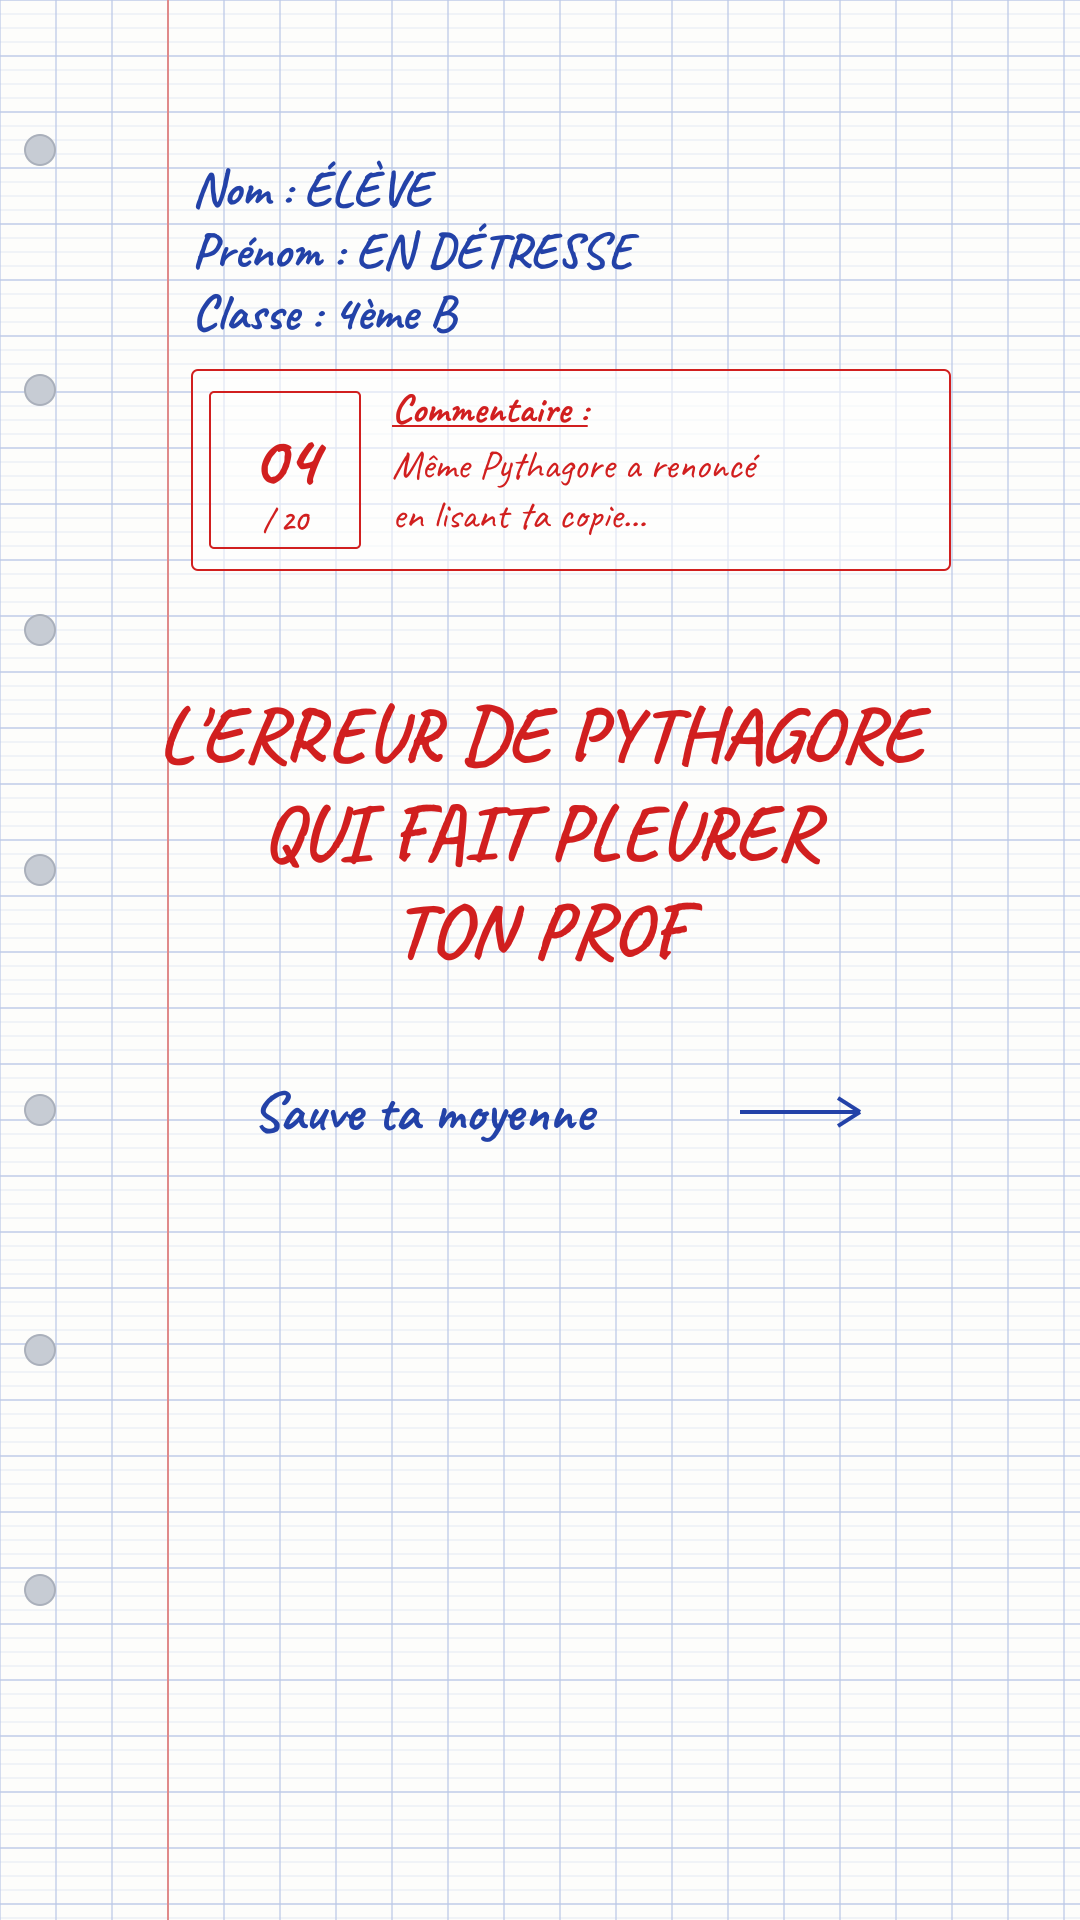
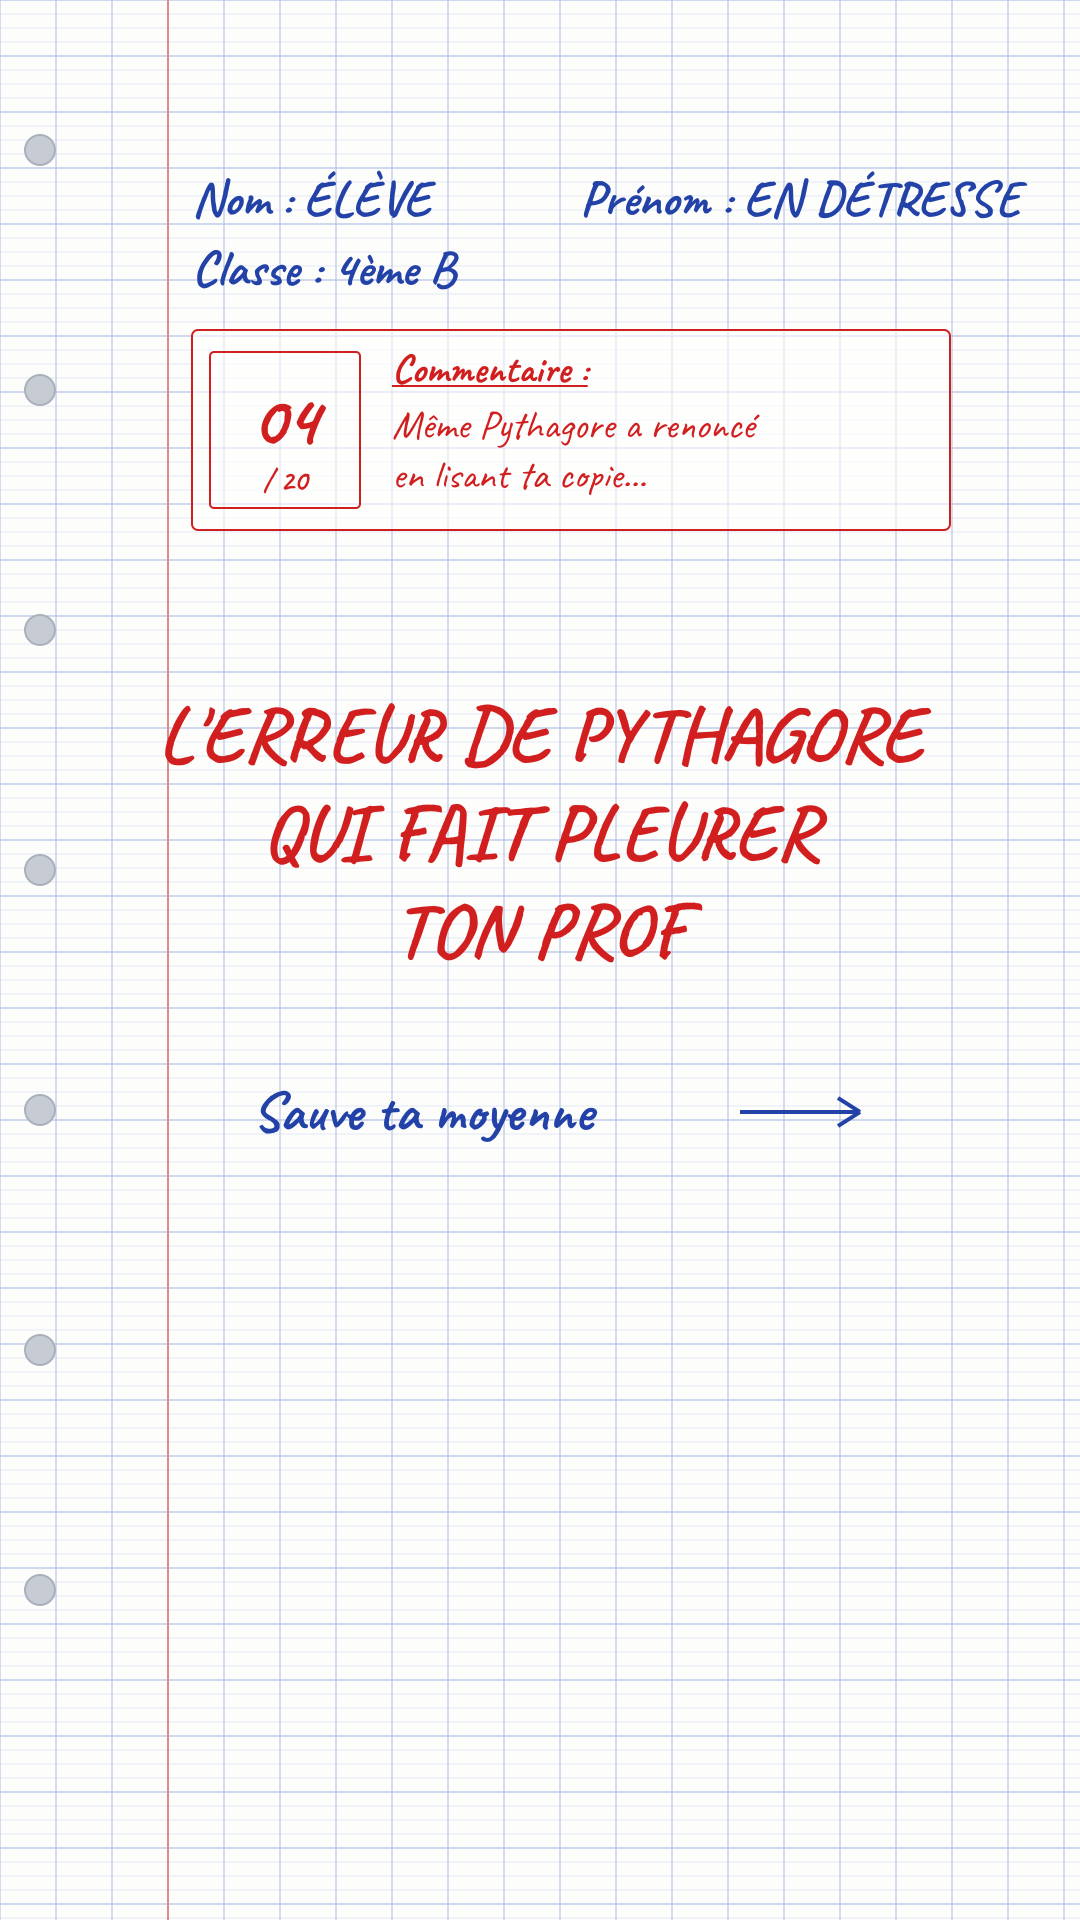
Revert hook header to side-by-side Nom/Prenom layout

Changed region(s): [[0.1833, 0.0625, 0.7028, 0.3125], [0.6722, 0.0938, 0.9472, 0.125], [0.3056, 0.2812, 0.3361, 0.3125]]

diff --git a/templates/copie-hook-pythagore.html b/templates/copie-hook-pythagore.html
@@ -64,7 +64,7 @@
     .ligne-nom>div{display:flex;align-items:baseline;gap:12px;}
 
     /* ESPACE COMMENTAIRE (cadre + note) */
-    .commentaire{position:absolute;top:380px;left:calc(var(--carreau)*4);right:var(--safe-right);
+    .commentaire{position:absolute;top:330px;left:calc(var(--carreau)*4);right:var(--safe-right);
       display:flex;gap:22px;border:2px solid var(--rouge);border-radius:6px;padding:18px;
       background:rgba(255,255,255,.55);font-family:var(--manuscrit);z-index:2;}
     .commentaire .note{flex:0 0 150px;border:2px solid var(--rouge);border-radius:4px;
@@ -100,8 +100,10 @@
 
     <!-- EN-TÊTE humoristique -->
     <div class="entete">
-      <div class="ligne"><span class="label">Nom :</span> <span contenteditable>ÉLÈVE</span></div>
-      <div class="ligne"><span class="label">Prénom :</span> <span contenteditable>EN DÉTRESSE</span></div>
+      <div class="ligne ligne-nom">
+        <div><span class="label">Nom :</span> <span contenteditable>ÉLÈVE</span></div>
+        <div><span class="label">Prénom :</span> <span contenteditable>EN DÉTRESSE</span></div>
+      </div>
       <div class="ligne"><span class="label">Classe :</span> <span contenteditable>4ème B</span></div>
     </div>
 
